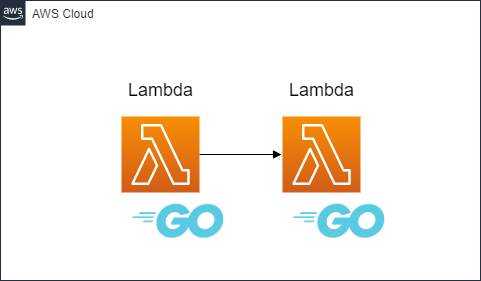
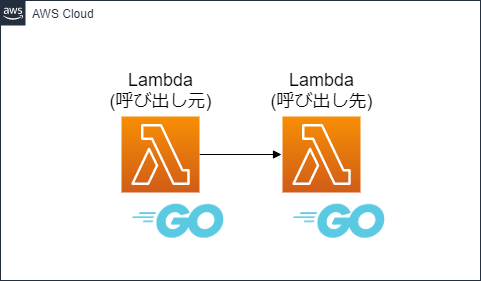
fix: lambda from to

Changed region(s): [[0.5613, 0.2562, 0.7796, 0.3986], [0.2183, 0.2562, 0.4366, 0.3986]]

diff --git a/source/_posts/20201112_GoでLambdaからLambdaを呼び出すときに気をつけたいポイント6選.md b/source/_posts/20201112_GoでLambdaからLambdaを呼び出すときに気をつけたいポイント6選.md
@@ -462,9 +462,9 @@ null
 
 ## 6. 呼び出し先のLambdaに設定されている環境変数は使える
 
-APIでLambda関数を呼び出した場合、呼び出し元の環境変数が使えなくなるのでは？と思う方もいるかもしれませんが、実は環境変数もちゃんとセットされます。
+APIでLambda関数を呼び出した場合、呼び出し先の環境変数が使えなくなるのでは？と思う方もいるかもしれませんが、実は環境変数もちゃんとセットされます。
 
-呼び出し元のLambda関数のハンドラは以下のようにしておきます。
+呼び出し先のLambda関数のハンドラは以下のようにしておきます。
 
 ```go
 func Handler(ctx context.Context) error {
